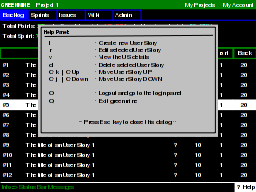
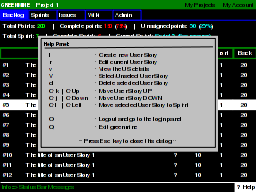
Finished the wirefranes of the backlog view

diff --git a/doc/wireframes/1.0/html/index.html b/doc/wireframes/1.0/html/index.html
@@ -16,6 +16,10 @@
 <div align="left">Slide 3</div>
 <div align="left">Slide 4</div>
 <div align="left">Slide 5</div>
+<div align="left">Slide 6</div>
+<div align="left">Slide 7</div>
+<div align="left">Slide 8</div>
+<div align="left">Slide 9</div>
 </td>
 <td valign="top" align="left" width="75%">
 <p><strong>Author:</strong> David Barragán | Alejandeo Gomez</p>
@@ -27,6 +31,10 @@ greenmine-ncurses is a  NCurses client for GreenMine.</p>
 <a href="img2.html"><img src="thumb2.png" width="256" height="192" alt="Slide 3"></a>
 <a href="img3.html"><img src="thumb3.png" width="256" height="192" alt="Slide 4"></a>
 <a href="img4.html"><img src="thumb4.png" width="256" height="192" alt="Slide 5"></a>
+<a href="img5.html"><img src="thumb5.png" width="256" height="192" alt="Slide 6"></a>
+<a href="img6.html"><img src="thumb6.png" width="256" height="192" alt="Slide 7"></a>
+<a href="img7.html"><img src="thumb7.png" width="256" height="192" alt="Slide 8"></a>
+<a href="img8.html"><img src="thumb8.png" width="256" height="192" alt="Slide 9"></a>
 </td></tr></table></center>
 </body>
 </html>

diff --git a/doc/wireframes/1.0/html/outline0.html b/doc/wireframes/1.0/html/outline0.html
@@ -11,5 +11,9 @@
 <div align="left"><p style="direction:ltr;"><a href="JavaScript:parent.NavigateAbs(2)">Slide 3</a></p></div>
 <div align="left"><p style="direction:ltr;"><a href="JavaScript:parent.NavigateAbs(3)">Slide 4</a></p></div>
 <div align="left"><p style="direction:ltr;"><a href="JavaScript:parent.NavigateAbs(4)">Slide 5</a></p></div>
+<div align="left"><p style="direction:ltr;"><a href="JavaScript:parent.NavigateAbs(5)">Slide 6</a></p></div>
+<div align="left"><p style="direction:ltr;"><a href="JavaScript:parent.NavigateAbs(6)">Slide 7</a></p></div>
+<div align="left"><p style="direction:ltr;"><a href="JavaScript:parent.NavigateAbs(7)">Slide 8</a></p></div>
+<div align="left"><p style="direction:ltr;"><a href="JavaScript:parent.NavigateAbs(8)">Slide 9</a></p></div>
 </body>
 </html>

diff --git a/doc/wireframes/1.0/html/navbar1.html b/doc/wireframes/1.0/html/navbar1.html
@@ -10,7 +10,7 @@
 <a href="JavaScript:parent.NavigateAbs(0)"><img src="first.png" border=0 alt="First page"></a>
 <a href="JavaScript:parent.NavigateRel(-1)"><img src="left.png" border=0 alt="Back"></a>
 <a href="JavaScript:parent.NavigateRel(1)"><img src="right.png" border=0 alt="Continue"></a>
-<a href="JavaScript:parent.NavigateAbs(4)"><img src="last.png" border=0 alt="Last page"></a>
+<a href="JavaScript:parent.NavigateAbs(8)"><img src="last.png" border=0 alt="Last page"></a>
 <a href="index.html" target="_top"><img src="home.png" border=0 alt="Overview"></a>
 </center>
 </body>

diff --git a/doc/wireframes/1.0/html/navbar0.html b/doc/wireframes/1.0/html/navbar0.html
@@ -10,7 +10,7 @@
 <img src="first-inactive.png" border=0 alt="First page">
 <img src="left-inactive.png" border=0 alt="Back">
 <a href="JavaScript:parent.NavigateRel(1)"><img src="right.png" border=0 alt="Continue"></a>
-<a href="JavaScript:parent.NavigateAbs(4)"><img src="last.png" border=0 alt="Last page"></a>
+<a href="JavaScript:parent.NavigateAbs(8)"><img src="last.png" border=0 alt="Last page"></a>
 <a href="index.html" target="_top"><img src="home.png" border=0 alt="Overview"></a>
 </center>
 </body>

diff --git a/doc/wireframes/1.0/html/img5.html b/doc/wireframes/1.0/html/img5.html
@@ -1,0 +1,11 @@
+<!DOCTYPE HTML PUBLIC "-//W3C//DTD HTML 4.01 Transitional//EN"
+     "http://www.w3.org/TR/html4/transitional.dtd">
+<html>
+<head>
+  <meta HTTP-EQUIV=CONTENT-TYPE CONTENT="text/html; charset=utf-8">
+  <title>Slide 6</title>
+</head>
+<body text="#FFFFFF" bgcolor="#000000" link="#000080" vlink="#0000CC" alink="#000080">
+<center><img src="img5.png" alt=""></center>
+</body>
+</html>

diff --git a/doc/wireframes/1.0/html/img6.html b/doc/wireframes/1.0/html/img6.html
@@ -1,0 +1,11 @@
+<!DOCTYPE HTML PUBLIC "-//W3C//DTD HTML 4.01 Transitional//EN"
+     "http://www.w3.org/TR/html4/transitional.dtd">
+<html>
+<head>
+  <meta HTTP-EQUIV=CONTENT-TYPE CONTENT="text/html; charset=utf-8">
+  <title>Slide 7</title>
+</head>
+<body text="#FFFFFF" bgcolor="#000000" link="#000080" vlink="#0000CC" alink="#000080">
+<center><img src="img6.png" alt=""></center>
+</body>
+</html>

diff --git a/doc/wireframes/1.0/html/img7.html b/doc/wireframes/1.0/html/img7.html
@@ -1,0 +1,11 @@
+<!DOCTYPE HTML PUBLIC "-//W3C//DTD HTML 4.01 Transitional//EN"
+     "http://www.w3.org/TR/html4/transitional.dtd">
+<html>
+<head>
+  <meta HTTP-EQUIV=CONTENT-TYPE CONTENT="text/html; charset=utf-8">
+  <title>Slide 8</title>
+</head>
+<body text="#FFFFFF" bgcolor="#000000" link="#000080" vlink="#0000CC" alink="#000080">
+<center><img src="img7.png" alt=""></center>
+</body>
+</html>

diff --git a/doc/wireframes/1.0/html/img8.html b/doc/wireframes/1.0/html/img8.html
@@ -1,0 +1,11 @@
+<!DOCTYPE HTML PUBLIC "-//W3C//DTD HTML 4.01 Transitional//EN"
+     "http://www.w3.org/TR/html4/transitional.dtd">
+<html>
+<head>
+  <meta HTTP-EQUIV=CONTENT-TYPE CONTENT="text/html; charset=utf-8">
+  <title>Slide 9</title>
+</head>
+<body text="#FFFFFF" bgcolor="#000000" link="#000080" vlink="#0000CC" alink="#000080">
+<center><img src="img8.png" alt=""></center>
+</body>
+</html>

diff --git a/doc/wireframes/1.0/html/siframes.html b/doc/wireframes/1.0/html/siframes.html
@@ -7,7 +7,7 @@
 <script type="text/javascript">
 <!--
 var nCurrentPage = 0;
-var nPageCount = 5;
+var nPageCount = 9;
 
 function NavigateAbs( nPage )
 {
